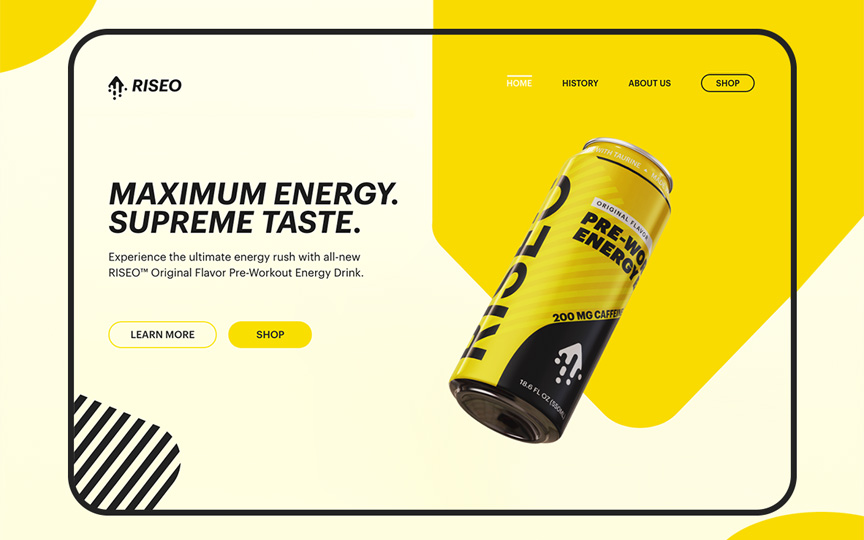
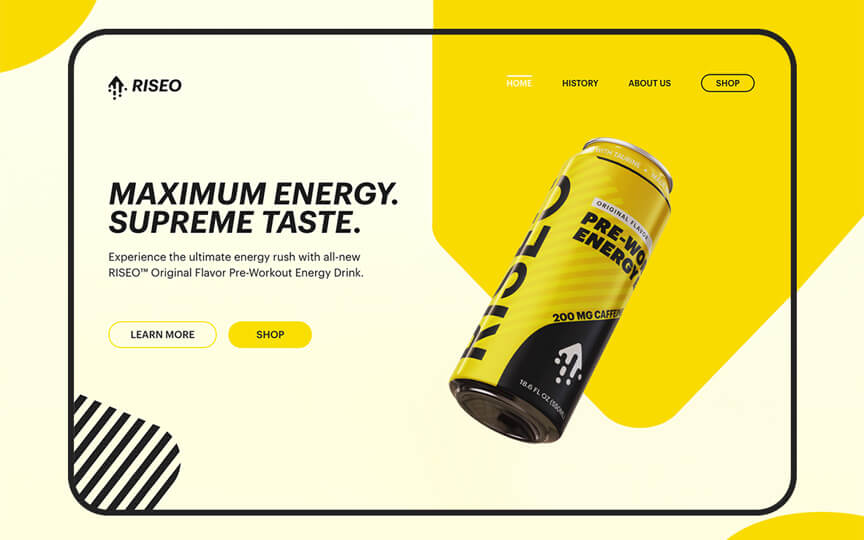
fixed header + index images
Removed 'digital' page & header category. Compressed cover images on index and category pages.

diff --git a/group-brand-projects.html b/group-brand-projects.html
@@ -53,7 +53,6 @@
 
         <li class="dib ml4-ns ml3 mr2 mv0-ns mt0 mb3 mt0"> <a href="index.html">All Work</a></li>
         <li class="dib mh2 mv0-ns mt0 mb3" class="mh2"> <a href="group-print-projects.html">Print</a></li>
-        <li class="dib mh2 mv0-ns mt0 mb3" class="mh2"> <a href="group-digital-projects.html">Digital</a></li>
         <li class="dib mh2 mv0-ns mt0 mb3" class="mh2"> <a href="group-brand-projects.html" style="color: #0005C9; text-decoration: none;">Brand</a></li>
         <li class="dib mh2 mv0-ns mt0 mb3" class="mh2"> <a href="group-web-projects.html">Web</a></li>
         <li class="dib mh2 mv0-ns mt0 mb3" class="mh2"> <a href="group-motion-projects.html">Motion</a></li>
@@ -71,19 +70,6 @@
 
       <!-- Flex Row One (Thirds) -->
       <div class="flex flex-row-ns items-start-ns justify-around-ns flex-column w-100 mt3 mb0-ns mb3 ph0-ns ph3 pt0-ns pt4">
-
-        <div class="w-third-ns w-100 h-100 mb3 ph3-ns container">
-          <a href="project-wmtbx.html">
-            <div class="relative">
-              <div class="f4-l f5 pt5-l pt4-m pt3 ph4 overlay">
-                <div class="caption">
-                  <p class="black mh4">WarnerMedia TBX</br><br>•</br><br>Digital Design</p>
-                </div>
-              </div>
-              <div><img src="/images/cover-wmtbx.png" alt="…" class="v-mid"></div>
-            </div>
-          </a>
-        </div>
 
         <div class="w-third-ns w-100 mb3 ph3-ns container">
           <a href="project-ccpl.html">
@@ -111,12 +97,6 @@
           </a>
         </div>
 
-      </div>
-
-
-      <!-- Flex Row Two -->
-      <div class="flex flex-row-ns items-start-ns justify-between-ns flex-column w-100 mt3-ns mt0 mb0-ns mb3 mb0-ns mb3 ph0-ns ph3 pt0">
-
         <div class="w-third-ns w-100  ph3-ns container mb3">
           <a href="project-prgver.html">
             <div class="relative">
@@ -125,10 +105,16 @@
                   <p class="black mh4">PRG / VER Graphics</br><br>•</br><br>Brand Identity + Animation</p>
                 </div>
               </div>
-              <div><img src="/images/cover-nl.png" alt="PRG / VER Animations" class="v-mid"></div>
+              <div><img src="/images/cover-prgver.gif" alt="PRG / VER Animations" class="v-mid"></div>
             </div>
           </a>
         </div>
+
+      </div>
+
+
+      <!-- Flex Row Two -->
+      <div class="flex flex-row-ns items-start-ns justify-between-ns flex-column w-100 mt3-ns mt0 mb0-ns mb3 mb0-ns mb3 ph0-ns ph3 pt0">
 
         <div class="w-third-ns w-100  ph3-ns container mb3">
           <a href="project-isadora.html">
@@ -154,6 +140,10 @@
               <div><img src="/images/cover-gf.jpg" alt="…" class="v-mid"></div>
             </div>
           </a>
+        </div>
+
+        <div class="w-third-ns">
+
         </div>
 
       </div>

diff --git a/group-print-projects.html b/group-print-projects.html
@@ -53,7 +53,6 @@
 
         <li class="dib ml4-ns ml3 mr2 mv0-ns mt0 mb3 mt0"> <a href="index.html">All Work</a></li>
         <li class="dib mh2 mv0-ns mt0 mb3" class="mh2"> <a href="group-print-projects.html" style="color: #0005C9; text-decoration: none;">Print</a></li>
-        <li class="dib mh2 mv0-ns mt0 mb3" class="mh2"> <a href="group-digital-projects.html">Digital</a></li>
         <li class="dib mh2 mv0-ns mt0 mb3" class="mh2"> <a href="group-brand-projects.html">Brand</a></li>
         <li class="dib mh2 mv0-ns mt0 mb3" class="mh2"> <a href="group-web-projects.html">Web</a></li>
         <li class="dib mh2 mv0-ns mt0 mb3" class="mh2"> <a href="group-motion-projects.html">Motion</a></li>
@@ -122,7 +121,7 @@
                   <p class="black mh4">Sankofa Catalogue</br><br>•</br><br>Editorial Design</p>
                 </div>
               </div>
-              <div><img src="/images/cover-sankofa.gif" alt="Horror Trope Doll" class="v-mid db"></div>
+              <div><img src="/images/cover-sankofa.png" alt="Horror Trope Doll" class="v-mid db"></div>
             </div>
           </a>
         </div>
@@ -135,7 +134,7 @@
                   <p class="black mh4">BFA Thesis: First to Die</br><br>•</br><br>Print, Editorial + Exhibition Design, Photography</p>
                 </div>
               </div>
-              <div><img src="/images/cover-ftd1.jpg" alt="Sankofa Catalogue" class="v-mid"></div>
+              <div><img src="/images/cover-ftd.png" alt="Sankofa Catalogue" class="v-mid"></div>
             </div>
           </a>
         </div>

diff --git a/group-motion-projects.html b/group-motion-projects.html
@@ -53,7 +53,6 @@
 
         <li class="dib ml4-ns ml3 mr2 mv0-ns mt0 mb3 mt0"> <a href="index.html">All Work</a></li>
         <li class="dib mh2 mv0-ns mt0 mb3" class="mh2"> <a href="group-print-projects.html">Print</a></li>
-        <li class="dib mh2 mv0-ns mt0 mb3" class="mh2"> <a href="group-digital-projects.html">Digital</a></li>
         <li class="dib mh2 mv0-ns mt0 mb3" class="mh2"> <a href="group-brand-projects.html">Brand</a></li>
         <li class="dib mh2 mv0-ns mt0 mb3" class="mh2"> <a href="group-web-projects.html">Web</a></li>
         <li class="dib mh2 mv0-ns mt0 mb3" class="mh2"> <a href="group-motion-projects.html" style="color: #0005C9; text-decoration: none;">Motion</a></li>
@@ -93,7 +92,7 @@
                   <p class="black mh4">PRG / VER Graphics</br><br>•</br><br>Brand Identity + Animation</p>
                 </div>
               </div>
-              <div><img src="/images/cover-nl.png" alt="PRG / VER Animations" class="v-mid"></div>
+              <div><img src="/images/cover-prgver.gif" alt="PRG / VER Animations" class="v-mid"></div>
             </div>
           </a>
         </div>

diff --git a/group-web-projects.html b/group-web-projects.html
@@ -53,7 +53,6 @@
 
         <li class="dib ml4-ns ml3 mr2 mv0-ns mt0 mb3 mt0"> <a href="index.html">All Work</a></li>
         <li class="dib mh2 mv0-ns mt0 mb3" class="mh2"> <a href="group-print-projects.html">Print</a></li>
-        <li class="dib mh2 mv0-ns mt0 mb3" class="mh2"> <a href="group-digital-projects.html">Digital</a></li>
         <li class="dib mh2 mv0-ns mt0 mb3" class="mh2"> <a href="group-brand-projects.html">Brand</a></li>
         <li class="dib mh2 mv0-ns mt0 mb3" class="mh2"> <a href="group-web-projects.html" style="color: #0005C9; text-decoration: none;">Web</a></li>
         <li class="dib mh2 mv0-ns mt0 mb3" class="mh2"> <a href="group-motion-projects.html">Motion</a></li>

diff --git a/index.html b/index.html
@@ -54,7 +54,6 @@
 
         <li class="dib ml4-ns ml3 mr2 mv0-ns mt0 mb3 mt0"> <a href="index.html" style="color: #0005C9; text-decoration: none;">All Work</a></li>
         <li class="dib mh2 mv0-ns mt0 mb3" class="mh2"> <a href="group-print-projects.html">Print</a></li>
-        <li class="dib mh2 mv0-ns mt0 mb3" class="mh2"> <a href="group-digital-projects.html">Digital</a></li>
         <li class="dib mh2 mv0-ns mt0 mb3" class="mh2"> <a href="group-brand-projects.html">Brand</a></li>
         <li class="dib mh2 mv0-ns mt0 mb3" class="mh2"> <a href="group-web-projects.html">Web</a></li>
         <li class="dib mh2 mv0-ns mt0 mb3" class="mh2"> <a href="group-motion-projects.html">Motion</a></li>
